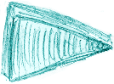
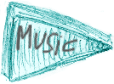
fixes ui

Changed region(s): [[0.1316, 0.2857, 0.6842, 0.6667]]

diff --git a/cow_privacy.html b/cow_privacy.html
@@ -1,0 +1,110 @@
+<!DOCTYPE html>
+    <html>
+    <head>
+      <meta charset='utf-8'>
+      <meta name='viewport' content='width=device-width'>
+      <title>Privacy Policy</title>
+      <style> body { font-family: 'Helvetica Neue', Helvetica, Arial, sans-serif; padding:1em; } </style>
+    </head>
+    <body>
+    <strong>Privacy Policy</strong> <p>
+                  Johnny Tal built the The Cow Goes... app as
+                  an Ad Supported app. This SERVICE is provided by
+                  Johnny Tal at no cost and is intended for use as
+                  is.
+                </p> <p>
+                  This page is used to inform visitors regarding my
+                  policies with the collection, use, and disclosure of Personal
+                  Information if anyone decided to use my Service.
+                </p> <p>
+                  If you choose to use my Service, then you agree to
+                  the collection and use of information in relation to this
+                  policy. The Personal Information that I collect is
+                  used for providing and improving the Service. I will not use or share your information with
+                  anyone except as described in this Privacy Policy.
+                </p> <p>
+                  The terms used in this Privacy Policy have the same meanings
+                  as in our Terms and Conditions, which is accessible at
+                  The Cow Goes... unless otherwise defined in this Privacy Policy.
+                </p> <p><strong>Information Collection and Use</strong></p> <p>
+                  For a better experience, while using our Service, I
+                  may require you to provide us with certain personally
+                  identifiable information. The information that
+                  I request will be retained on your device and is not collected by me in any way.
+                </p> <div><p>
+                    The app does use third party services that may collect
+                    information used to identify you.
+                  </p> <p>
+                    Link to privacy policy of third party service providers used
+                    by the app
+                  </p> <ul><li><a href="https://www.google.com/policies/privacy/" target="_blank">Google Play Services</a></li><li><a href="https://support.google.com/admob/answer/6128543?hl=en" target="_blank">AdMob</a></li><!----><!----><!----><!----><!----><!----><!----><!----><!----><!----><!----><!----><!----><!----></ul></div> <p><strong>Log Data</strong></p> <p>
+                  I want to inform you that whenever you
+                  use my Service, in a case of an error in the app
+                  I collect data and information (through third party
+                  products) on your phone called Log Data. This Log Data may
+                  include information such as your device Internet Protocol
+                  (“IP”) address, device name, operating system version, the
+                  configuration of the app when utilizing my Service,
+                  the time and date of your use of the Service, and other
+                  statistics.
+                </p> <p><strong>Cookies</strong></p> <p>
+                  Cookies are files with a small amount of data that are
+                  commonly used as anonymous unique identifiers. These are sent
+                  to your browser from the websites that you visit and are
+                  stored on your device's internal memory.
+                </p> <p>
+                  This Service does not use these “cookies” explicitly. However,
+                  the app may use third party code and libraries that use
+                  “cookies” to collect information and improve their services.
+                  You have the option to either accept or refuse these cookies
+                  and know when a cookie is being sent to your device. If you
+                  choose to refuse our cookies, you may not be able to use some
+                  portions of this Service.
+                </p> <p><strong>Service Providers</strong></p> <p>
+                  I may employ third-party companies and
+                  individuals due to the following reasons:
+                </p> <ul><li>To facilitate our Service;</li> <li>To provide the Service on our behalf;</li> <li>To perform Service-related services; or</li> <li>To assist us in analyzing how our Service is used.</li></ul> <p>
+                  I want to inform users of this Service
+                  that these third parties have access to your Personal
+                  Information. The reason is to perform the tasks assigned to
+                  them on our behalf. However, they are obligated not to
+                  disclose or use the information for any other purpose.
+                </p> <p><strong>Security</strong></p> <p>
+                  I value your trust in providing us your
+                  Personal Information, thus we are striving to use commercially
+                  acceptable means of protecting it. But remember that no method
+                  of transmission over the internet, or method of electronic
+                  storage is 100% secure and reliable, and I cannot
+                  guarantee its absolute security.
+                </p> <p><strong>Links to Other Sites</strong></p> <p>
+                  This Service may contain links to other sites. If you click on
+                  a third-party link, you will be directed to that site. Note
+                  that these external sites are not operated by me.
+                  Therefore, I strongly advise you to review the
+                  Privacy Policy of these websites. I have
+                  no control over and assume no responsibility for the content,
+                  privacy policies, or practices of any third-party sites or
+                  services.
+                </p> <p><strong>Children’s Privacy</strong></p> <p>
+                  These Services do not address anyone under the age of 13.
+                  I do not knowingly collect personally
+                  identifiable information from children under 13. In the case
+                  I discover that a child under 13 has provided
+                  me with personal information, I immediately
+                  delete this from our servers. If you are a parent or guardian
+                  and you are aware that your child has provided us with
+                  personal information, please contact me so that
+                  I will be able to do necessary actions.
+                </p> <p><strong>Changes to This Privacy Policy</strong></p> <p>
+                  I may update our Privacy Policy from
+                  time to time. Thus, you are advised to review this page
+                  periodically for any changes. I will
+                  notify you of any changes by posting the new Privacy Policy on
+                  this page.
+                </p> <p>This policy is effective as of 2020-06-01</p> <p><strong>Contact Us</strong></p> <p>
+                  If you have any questions or suggestions about my
+                  Privacy Policy, do not hesitate to contact me at johnnytal9@gmail.com.
+                </p>
+    </body>
+    </html>
+      

diff --git a/js/oranim/main.js b/js/oranim/main.js
@@ -9,7 +9,7 @@ var game_main = function(game){
     boxes = [];
     boxesBgs = [];
     items = [];
-    allKeys = [];
+   // allKeys = [];
     
     OFF_SET = 19;
     HIGHLIGHT_COLOR = 0xff0000;
@@ -22,7 +22,8 @@ game_main.prototype = {
     create: function(){
     	loadSounds();
         try{StatusBar.hide;}catch(e){}
-        //initAd();
+        
+        initAd();
     	
     	bg = game.add.image(0, 0, 'bg');
     	bg.alpha = 0.25;
@@ -43,9 +44,9 @@ game_main.prototype = {
     		items.push(sprite);
     	}
     	
-    	for (x = 0; x < soundsArray.length; x++){
+    	/*for (x = 0; x < soundsArray.length; x++){
     		allKeys[x] = soundsArray[x].key;
-    	}
+    	}*/
 
         for (n = 0; n < N_ROWS * N_COLUMNS; n++){
             box = game.add.sprite(0, 0, 'box' + Math.floor(Math.random() * 5));
@@ -76,6 +77,7 @@ game_main.prototype = {
         power_reset = game.add.sprite(1375, 15, 'power_reset');
 		power_reset.inputEnabled = true;
 		power_reset.events.onInputDown.add(function(){
+			power_reset.tint = 0xff00ff;
 			location.reload();
 			if(AdMob) AdMob.showInterstitial();
 		}, this);
@@ -100,11 +102,13 @@ game_main.prototype = {
 function playMusic(){
 	if (playBtn.tint == 0xffffff){
 		playBtn.tint = 0x00ff00;
+		playBtn.scale.set(.95, .98);
 		musics[game.rnd.integerInRange(0, musics.length-1)].mute = false;
 	}
 	else{
 		playBtn.tint = 0xffffff;
 		for (m = 0; m < musics.length; m++){
+			playBtn.scale.set(1, 1);
 			musics[m].mute = true;
 		}
 	}
@@ -295,19 +299,19 @@ function play_sounds(_keys){
 }
 
 function loadSounds(){
-	cowSfx = game.add.audio('cow', 0.6, false);
-	elephantSfx = game.add.audio('elephant', 0.7, false);
-	sheepSfx = game.add.audio('sheep', 0.6, false);
-	catSfx = game.add.audio('cat', 0.8, false);
-	dogSfx = game.add.audio('dog', 0.8, false);
-	monkeySfx = game.add.audio('monkey', 0.8, false);
-	pigSfx = game.add.audio('pig', 0.8, false);
-	chickenSfx = game.add.audio('chicken', 0.9, false);
-	owlSfx = game.add.audio('owl', 1, false);
-	penguinSfx = game.add.audio('penguin', 0.9, false);
-	bearSfx = game.add.audio('bear', 0.8, false);
+	cowSfx = game.add.audio('cow', 0.4, false);
+	elephantSfx = game.add.audio('elephant', 0.5, false);
+	sheepSfx = game.add.audio('sheep', 0.4, false);
+	catSfx = game.add.audio('cat', 0.6, false);
+	dogSfx = game.add.audio('dog', 0.6, false);
+	monkeySfx = game.add.audio('monkey', 0.6, false);
+	pigSfx = game.add.audio('pig', 0.6, false);
+	chickenSfx = game.add.audio('chicken', 0.7, false);
+	owlSfx = game.add.audio('owl', 0.8, false);
+	penguinSfx = game.add.audio('penguin', 0.7, false);
+	bearSfx = game.add.audio('bear', 0.6, false);
 
-	clockSfx = game.add.audio('clock', 0.7, false);
+	clockSfx = game.add.audio('clock', 0.6, false);
 	
 	musicSfx = game.add.audio('music', 1, true);
 	music2Sfx = game.add.audio('music2', 1, true);
